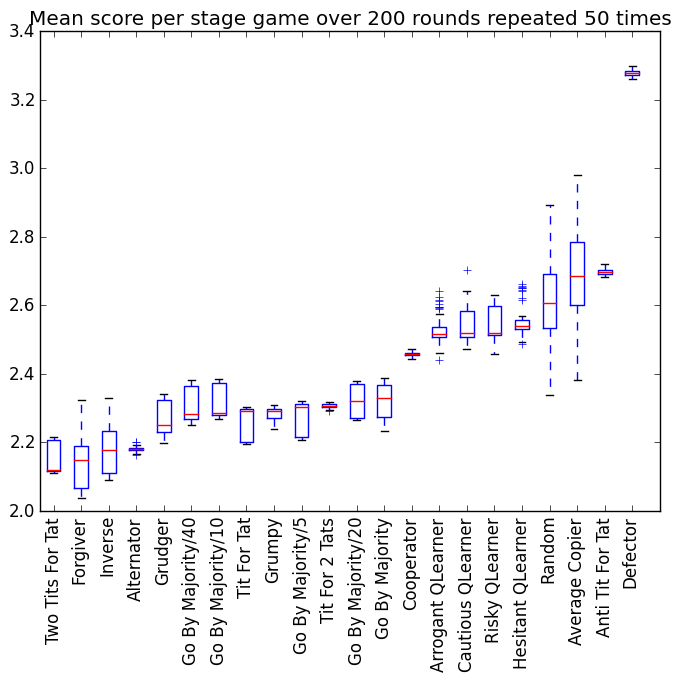
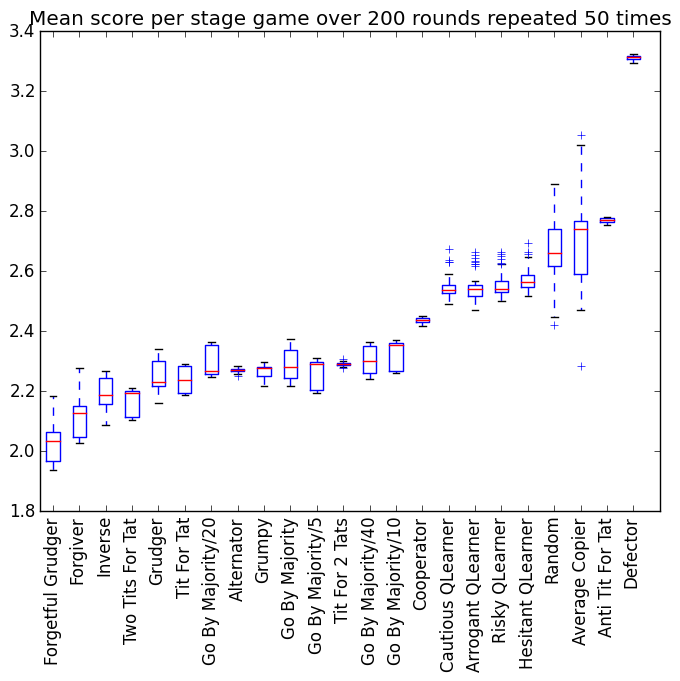
Adding forgetful grudger strategy

diff --git a/axelrod/tests/test_forgetfulgrudger.py b/axelrod/tests/test_forgetfulgrudger.py
@@ -1,0 +1,63 @@
+"""
+Test for the grudger strategy
+"""
+import unittest
+import axelrod
+import random
+
+class TestForgetfulGrudger(unittest.TestCase):
+
+    def test_strategy(self):
+        """
+        Starts by cooperating
+        """
+        P1 = axelrod.ForgetfulGrudger()
+        P2 = axelrod.Player()
+
+        self.assertEqual(P1.grudged, False)
+
+        # Starts by playing C
+        self.assertEqual(P1.strategy(P2), 'C')
+        self.assertEqual(P1.grudged, False)
+        P2.history.append('C')
+
+        self.assertEqual(P1.strategy(P2), 'C')
+        self.assertEqual(P1.grudged, False)
+        P2.history.append('C')
+
+        self.assertEqual(P1.strategy(P2), 'C')
+        self.assertEqual(P1.grudged, False)
+        P2.history.append('C')
+
+        self.assertEqual(P1.strategy(P2), 'C')
+        self.assertEqual(P1.grudged, False)
+        P2.history.append('D')
+
+        self.assertEqual(P2.history, ['C', 'C', 'C', 'D'])
+        self.assertEqual(P1.strategy(P2), 'D')
+        self.assertEqual(P1.grudged, True)
+
+        for turn in range(P1.mem_length-1):
+            self.assertEqual(P1.strategy(P2), 'D')
+            # Doesn't matter what opponent plays now
+            P2.history.append(random.choice(['C', 'D']))
+            self.assertEqual(P1.grudged, True)
+
+        self.assertEqual(P1.strategy(P2), 'D')
+        self.assertEqual(P1.grudge_memory, 10)
+        self.assertEqual(P1.grudged, True)
+        P2.history.append('C')
+
+        # Back to being not grudged
+        self.assertEqual(P1.strategy(P2), 'C')
+        self.assertEqual(P1.grudged, False)
+        P2.history.append('C')
+
+        self.assertEqual(P1.strategy(P2), 'C')
+        self.assertEqual(P1.grudged, False)
+        P2.history.append('C')
+
+
+    def test_representation(self):
+        P1 = axelrod.ForgetfulGrudger()
+        self.assertEqual(str(P1), 'Forgetful Grudger')

diff --git a/axelrod/strategies/forgetfulgrudger.py b/axelrod/strategies/forgetfulgrudger.py
@@ -1,0 +1,46 @@
+from axelrod import Player
+
+class ForgetfulGrudger(Player):
+    """
+    A player starts by cooperating however will defect if at any point the opponent has defected, but forgets after 20 matches
+    """
+
+    def __init__(self):
+        """
+        Initialised the player
+        """
+        self.history = []
+        self.score = 0
+        self.mem_length = 10
+        self.grudged = False
+        self.grudge_memory = 0
+
+    def strategy(self, opponent):
+        """
+        Begins by playing C, then plays D for mem_length rounds if the opponent ever plays D
+        """
+        if self.grudge_memory >= self.mem_length:
+            self.grudge_memory = 0
+            self.grudged = False
+
+        if self.grudged:
+            self.grudge_memory += 1
+            return 'D'
+        elif 'D' in opponent.history[-1:]:
+            self.grudged = True
+            return 'D'
+        return 'C'
+
+    def reset(self):
+        """
+        Resets scores and history
+        """
+        self.history = []
+        self.grudged = False
+        self.grudge_memory = 0
+
+    def __repr__(self):
+        """
+        The string method for the strategy.
+        """
+        return 'Forgetful Grudger'

diff --git a/axelrod/strategies/__init__.py b/axelrod/strategies/__init__.py
@@ -12,6 +12,7 @@ from grumpy import *
 from geller import *
 from inverse import *
 from forgiver import *
+from forgetfulgrudger import *
 
 strategies = [
         Defector,
@@ -36,6 +37,7 @@ strategies = [
         ArrogantQLearner,
         HesitantQLearner,
         CautiousQLearner,
+        ForgetfulGrudger
         ]
 
 #These are strategies that do not follow the rules of Axelrods tournement.
